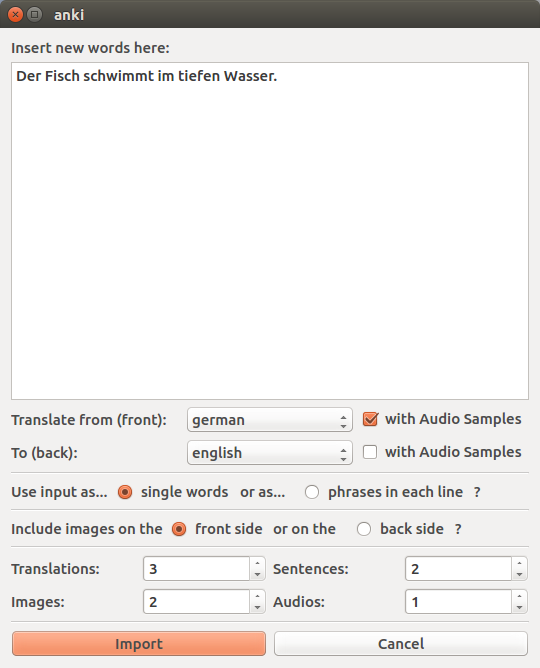
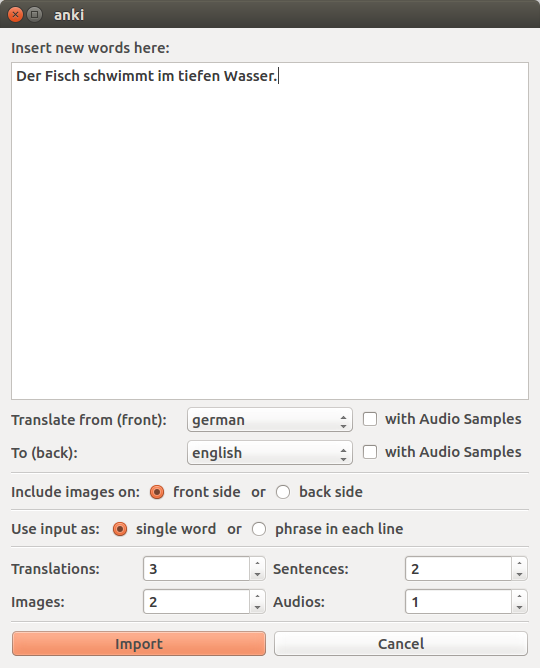
improve user interface, update screenshot

Changed region(s): [[0.0296, 0.7186, 0.8889, 0.7485], [0.0296, 0.7784, 0.8593, 0.8084], [0.6519, 0.5988, 0.7111, 0.6587]]

diff --git a/VocabularyImporter/input_dialog.py b/VocabularyImporter/input_dialog.py
@@ -26,11 +26,17 @@ class InputDialog(QDialog):
         self.input_box = QPlainTextEdit(self)
 
     def _init_input_mode(self):
-        self.input_radiobutton_single_word = QRadioButton("single words")
-        self.input_radiobutton_phrases_line = QRadioButton("phrases in each line")
+        self.input_radiobutton_single_word = QRadioButton("single word")
+        self.input_radiobutton_phrases_line = QRadioButton("phrase in each line")
 
         self.input_radiobutton_single_word.setChecked(True)
         self.input_radiobutton_phrases_line.setChecked(False)
+
+        self.input_radiobutton_group = QButtonGroup()
+        self.input_radiobutton_group.setExclusive(True)
+
+        self.input_radiobutton_group.addButton(self.input_radiobutton_single_word)
+        self.input_radiobutton_group.addButton(self.input_radiobutton_phrases_line)
 
     def _init_lang_preferences(self):
         self.from_box = QComboBox()
@@ -50,6 +56,12 @@ class InputDialog(QDialog):
 
         self.from_radiobutton.setChecked(True)
         self.dest_radiobutton.setChecked(False)
+
+        self.img_pref_radiobutton_group = QButtonGroup()
+        self.img_pref_radiobutton_group.setExclusive(True)
+
+        self.img_pref_radiobutton_group.addButton(self.from_radiobutton)
+        self.img_pref_radiobutton_group.addButton(self.dest_radiobutton)
 
     def _init_spinboxes(self):
         self.translations_label = QLabel("Translations: ")
@@ -93,9 +105,9 @@ class InputDialog(QDialog):
         self._set_input()
         self._set_lang_preferences()
         self.layout.addWidget(QHLine())
-        self._set_input_mode()
-        self.layout.addWidget(QHLine())
         self._set_image_preferences()
+        self.layout.addWidget(QHLine())
+        self._set_input_mode()
         self.layout.addWidget(QHLine())
         self._set_spinboxes()
         self.layout.addWidget(QHLine())
@@ -110,15 +122,14 @@ class InputDialog(QDialog):
     def _set_input_mode(self):
         self.input_mode_layout = QHBoxLayout()
 
-        self.input_mode_layout.addWidget(QLabel("Use input as..."))
+        self.input_mode_layout.addWidget(QLabel("Use input as: "))
         self.input_mode_layout.addWidget(self.input_radiobutton_single_word)
 
-        self.input_mode_layout.addWidget(QLabel("or as..."))
+        self.input_mode_layout.addWidget(QLabel("or"))
         self.input_mode_layout.addWidget(self.input_radiobutton_phrases_line)
 
-        self.input_mode_layout.addWidget(QLabel("?"))
-
         self.layout.addLayout(self.input_mode_layout)
+        self.layout.setAlignment(self.input_mode_layout, Qt.AlignLeft)
 
     def _set_lang_preferences(self):
         self.from_lang_layout = QHBoxLayout()
@@ -138,13 +149,13 @@ class InputDialog(QDialog):
     def _set_image_preferences(self):
         self.image_pref_layout = QHBoxLayout()
 
-        self.image_pref_layout.addWidget(QLabel("Include images on the"))
+        self.image_pref_layout.addWidget(QLabel("Include images on:"))
         self.image_pref_layout.addWidget(self.from_radiobutton)
-        self.image_pref_layout.addWidget(QLabel("or on the"))
+        self.image_pref_layout.addWidget(QLabel("or"))
         self.image_pref_layout.addWidget(self.dest_radiobutton)
-        self.image_pref_layout.addWidget(QLabel("?"))
 
         self.layout.addLayout(self.image_pref_layout)
+        self.layout.setAlignment(self.image_pref_layout, Qt.AlignLeft)
 
     def _set_spinboxes(self):
         self.spinbox_layout_1 = QHBoxLayout()
